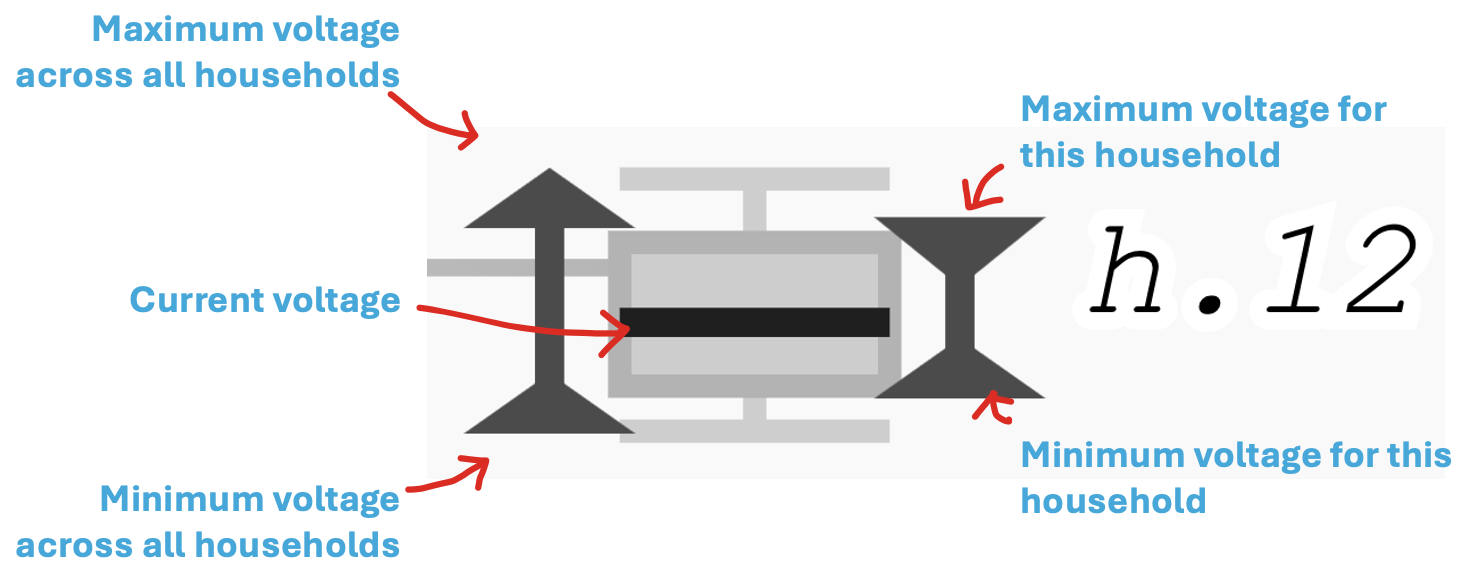
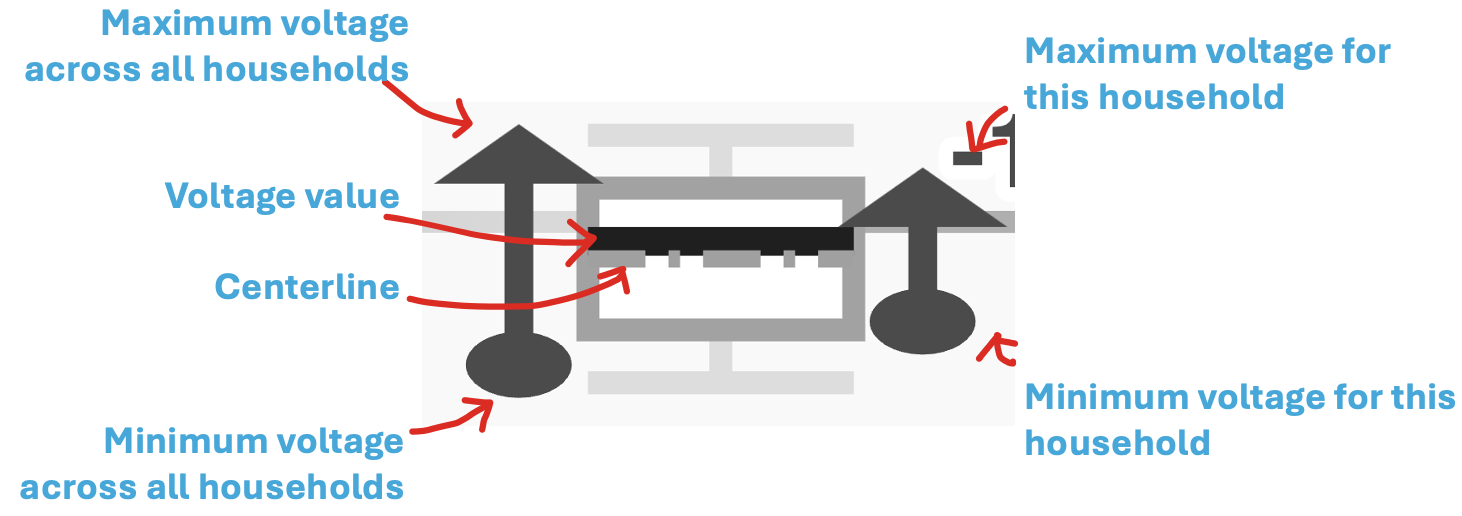
Questionnaire update

diff --git a/src/components/ReactMarkdownWrapper.tsx b/src/components/ReactMarkdownWrapper.tsx
@@ -29,6 +29,13 @@ const markdownComponents = (inline?: boolean): Partial<Components> => ({
   code({ node: _, ...props }) { return <Code {...props} />; },
   ul({ node: _, ...props }) { return <List withPadding {...props} pb={inline ? undefined : 8} />; },
   ol({ node: _, type: _type, ...props }) { return <List {...props} type="ordered" withPadding pb={inline ? undefined : 8} />; },
+  li({ node: _, children, ...props }) {
+    return (
+      <List.Item {...props}>
+        {children}
+      </List.Item>
+    );
+  },
   table({ node: _, ...props }) { return <Table {...props} mb={12} borderColor="grey" />; },
   thead({ node: _, ...props }) { return <Table.Thead {...props} />; },
   tbody({ node: _, ...props }) { return <Table.Tbody {...props} />; },

diff --git a/public/comparison-method/assets/tutorial3.md b/public/comparison-method/assets/tutorial3.md
@@ -2,7 +2,7 @@
 
 In this part, you will compare two datasets and answer a series of questions about the differences between them. In this design, the difference between the two datasets is **drawn directly in the figure**.
 
-![Example of the explicit encoding visualization](comparison-method/assets/exp/node.png)
+![Example of the explicit encoding visualization](comparison-method/assets/exp/test.png)
 
 ## How to read the figure
 
@@ -13,10 +13,10 @@ In this part, you will compare two datasets and answer a series of questions abo
 **B − A** difference is shown through three separate encodings on top of that fixed symbol:
 * **Line in the box** represents voltage value difference between dataset B and A, or voltage variation over time between dataset B and A. 
 * **Dashed in the box** represents the centerline of the symbol. It is fixed in the symbol and provide reference of the line position.
-* **Vertical position:** for the line in the box, vertical position represents the voltage value: a higher position indicates a higher voltage value, while a lower position indicates a lower voltage value.
-* **Left arrow:** the direction of the upper end represents the difference between B and A in maximum voltage value across all households; the direction of the bottom end represents the difference between B and A in minimum voltage value across all households.
-* **Right arrow:** the direction of the upper end represents the difference between B and A in maximum voltage value for that household; the direction of the bottom end represents the difference between B and A in minimum voltage value for that household.
-* **Arrow direction** indicates the the difference of B − A. Movement away from the centerline represents a positive difference (\( B - A > 0\)), whereas movement toward the centerline represents a negative difference (\(B - A < 0\)). 
+* **Vertical position** for the line in the box, vertical position represents the voltage value: a higher position indicates a higher voltage value, while a lower position indicates a lower voltage value.
+* **Left arrow** the direction of the upper end represents the difference between B and A in maximum voltage value across all households; the direction of the bottom end represents the difference between B and A in minimum voltage value across all households.
+* **Right arrow** the direction of the upper end represents the difference between B and A in maximum voltage value for that household; the direction of the bottom end represents the difference between B and A in minimum voltage value for that household.
+* **Arrow direction** indicates the the difference of B − A. Movement away from the centerline represents a positive difference \( B - A > 0\), whereas movement toward the centerline represents a negative difference \(B - A < 0\). 
   * For the upper ends of the arrows: arrow uses ▲ if B > A, ▼ if B < A, or ● if B = A.
   * For the bottom ends of the arrows: arrow uses ▼ if B > A, ▲ if B < A, or ● if B = A.
   
@@ -25,26 +25,33 @@ In this part, you will compare two datasets and answer a series of questions abo
 
 Each question names a node, for example **h.23**. There are three types of questions:
 
-1. **Value questions** ask which dataset has the *higher* value of one of these:
+#### **Value questions** 
+Ask which dataset has the *higher* value of one of these:
+![Example of the explicit encoding visualization](comparison-method/assets/exp/node.png)
 
-    * **Maximum / minimum voltage value across all households:** check the upper / bottom end of left arrow.Movement away from the centerline represents a positive difference (\( B - A > 0\)), whereas movement toward the centerline represents a negative difference (\(B - A < 0\)). 
-    * **Maximum / minimum voltage value for that household:** check the upper / bottom end of right arrow. Movement away from the centerline represents a positive difference (\( B - A > 0\)), whereas movement toward the centerline represents a negative difference (\(B - A < 0\)). 
-    * **Voltage value:** check the voltage line in the box, the line above the dashed line indicates B - A > 0, while line below the dashed line indicates B - A < 0.
+* **Maximum / minimum voltage value across all households:** check the upper / bottom end of left arrow. Movement away from the centerline represents a positive difference \( B - A > 0\), whereas movement toward the centerline represents a negative difference ((B - A < 0\). 
+* **Maximum / minimum voltage value for that household:** check the upper / bottom end of right arrow. Movement away from the centerline represents a positive difference \( B - A > 0\), whereas movement toward the centerline represents a negative difference \(B - A < 0\). 
+* **Voltage value:** check the voltage line in the box, the line above the dashed line indicates B - A > 0, while line below the dashed line indicates B - A < 0.
 
 *Answers: Dataset A, Dataset B, or Same.*
 
-2. **Variation questions** ask which dataset shows greater variation over time: 
+#### **Variation questions** 
+Ask which dataset shows greater variation over time: 
+<img src="comparison-method/assets/exp/variation.png" alt="drawing" style="width:500px;"/>
 
 * **Variation line:** check the line in the box, the line above the dashed line indicates B - A > 0, while line below the dashed line indicates B - A < 0.
 
 *Answers: Dataset A, Dataset B, or Same.*
 
-3. **Range questions** ask which dataset has the larger range for the node, that is, the difference between the maximum and minimum voltage value for that node:
+#### **Range questions** 
+Ask which dataset has the larger range for the node, that is, the difference between the maximum and minimum voltage value for that node:
+<img src="comparison-method/assets/exp/variation.png" alt="drawing" style="width:600px;"/>
 
-    * **Maximum / minimum voltage value for that household:** check the right arrow, two ends moving away from the centerline indicates the range is larger in Dataset B, while two ends moving toward the centerline indicates the range is smaller in Dataset B.
+* **Maximum / minimum voltage value for that household:** check the right arrow, two ends moving away from the centerline indicates the range is larger in Dataset B, while two ends moving toward the centerline indicates the range is smaller in Dataset B.
 
 *Answers: Dataset A, Dataset B, or Same.*
 
+#### Note
 If anything is unclear, please read this page again. When you are ready, select **Next** to start the questions.
 
 

diff --git a/public/comparison-method/assets/tutorial1.md b/public/comparison-method/assets/tutorial1.md
@@ -2,7 +2,7 @@
 
 In this part, you will compare two datasets and answer three groups of questions about the differences between them. In this design, the two datasets are shown in two grids **side by side**.
 
-![Example of the juxtaposition visualization](comparison-method/assets/jux/node.png)
+![Example of the juxtaposition visualization](comparison-method/assets/jux/test.png)
 
 ## How to read the figure
 * **Dataset A** is shown in the left grid.
@@ -22,24 +22,33 @@ In this part, you will compare two datasets and answer three groups of questions
 
 Each question names a node, for example **h.23**. There are three types of questions:
 
-1. **Value questions** ask which dataset has the *higher* value of one of these:
+#### **Value questions** 
+Ask which dataset has the *higher* value of one of these:
+![Example of the juxtaposition visualization](comparison-method/assets/jux/node.png)
 
-    * **Maximum / minimum voltage value across all households:** check the upper / bottom whisker, a higher position indicates a higher value, while a lower position indicates a lower value.
-    * **Maximum / minimum voltage value for that household:** check the upper / bottom box border, a higher position indicates a higher value, while a lower position indicates a lower value.
-    * **Voltage value:** check the voltage line in the box, a higher position indicates a higher value, while a lower position indicates a lower value.
+* **Maximum / minimum voltage value across all households:** check the upper / bottom whisker, a higher position indicates a higher value, while a lower position indicates a lower value.
+* **Maximum / minimum voltage value for that household:** check the upper / bottom box border, a higher position indicates a higher value, while a lower position indicates a lower value.
+* **Voltage value:** check the voltage line in the box, a higher position indicates a higher value, while a lower position indicates a lower value.
 
 *Answers: Dataset A, Dataset B, or Same.*
 
-2. **Variation questions** ask which dataset shows greater variation over time: 
+
+#### **Variation questions** 
+Ask which dataset shows greater variation over time: 
+<img src="comparison-method/assets/jux/variation.png" alt="drawing" style="width:500px;"/>
 
 * **Voltage curve:** assess the degree of dispersion of each time series around its central tendency over the time period. A greater degree of dispersion indicates greater variation.
 
 *Answers: Dataset A, Dataset B, or Same.*
 
-3. **Range questions** ask which dataset has the larger range for the node, that is, the difference between the maximum and minimum voltage value for that node:
 
-    * **Maximum / minimum voltage value for that household:** check the difference between upper / bottom box border, larger the difference indicates larger the range.
+#### **Range questions** 
+Ask which dataset has the larger range for the node, that is, the difference between the maximum and minimum voltage value for that node:
+<img src="comparison-method/assets/jux/range.png" alt="drawing" style="width:700px;"/>
+
+* **Maximum / minimum voltage value for that household:** check the difference between upper / bottom box border, larger the difference indicates larger the range.
 
 *Answers: Dataset A, Dataset B, or Same.*
 
+#### Note
 If anything is unclear, please read this page again. When you are ready, select **Next** to start the questions.

diff --git a/public/comparison-method/assets/tutorial2.md b/public/comparison-method/assets/tutorial2.md
@@ -2,7 +2,7 @@
 
 In this part, you will compare two datasets and answer a series of questions about the differences between them. In this design, two nodes are plotted at each data point **in the same grid**.
 
-![Example of the superposition visualization](comparison-method/assets/sup/node.png)
+![Example of the superposition visualization](comparison-method/assets/sup/test.png)
 
 ## How to read the figure
 * **Dataset A** is shown in the left grid.
@@ -22,25 +22,32 @@ In this part, you will compare two datasets and answer a series of questions abo
 
 Each question names a node, for example **h.23**. There are three types of questions:
 
-1. **Value questions** ask which dataset has the *higher* value of one of these:
+#### **Value questions** 
+Ask which dataset has the *higher* value of one of these:
+![Example of the superposition visualization](comparison-method/assets/sup/node.png)
 
-    * **Maximum / minimum voltage value across all households:** check the upper / bottom whisker, a higher position indicates a higher value, while a lower position indicates a lower value.
-    * **Maximum / minimum voltage value for that household:** check the upper / bottom box border, a higher position indicates a higher value, while a lower position indicates a lower value.
-    * **Voltage value:** check the voltage line in the box, a higher position indicates a higher value, while a lower position indicates a lower value.
+* **Maximum / minimum voltage value across all households:** check the upper / bottom whisker, a higher position indicates a higher value, while a lower position indicates a lower value.
+* **Maximum / minimum voltage value for that household:** check the upper / bottom box border, a higher position indicates a higher value, while a lower position indicates a lower value.
+* **Voltage value:** check the voltage line in the box, a higher position indicates a higher value, while a lower position indicates a lower value.
 
 *Answers: Dataset A, Dataset B, or Same.*
 
-2. **Variation questions** ask which dataset shows greater variation over time: 
+#### **Variation questions** 
+Ask which dataset shows greater variation over time: 
+![Example of the superposition visualization](comparison-method/assets/sup/variation.png)
 
 * **Voltage curve:** assess the degree of dispersion of each time series around its central tendency over the time period. A greater degree of dispersion indicates greater variation.
 
 *Answers: Dataset A, Dataset B, or Same.*
 
-3. **Range questions** ask which dataset has the larger range for the node, that is, the difference between the maximum and minimum voltage value for that node:
+#### **Range questions** 
+Ask which dataset has the larger range for the node, that is, the difference between the maximum and minimum voltage value for that node:
+![Example of the superposition visualization](comparison-method/assets/sup/range.png)
 
-    * **Maximum / minimum voltage value for that household:** check the difference between upper / bottom box border, larger the difference indicates larger the range.
+* **Maximum / minimum voltage value for that household:** check the difference between upper / bottom box border, larger the difference indicates larger the range.
 
 *Answers: Dataset A, Dataset B, or Same.*
 
+#### Note
 If anything is unclear, please read this page again. When you are ready, select **Next** to start the questions.
 

diff --git a/public/comparison-method/assets/introduction.md b/public/comparison-method/assets/introduction.md
@@ -8,9 +8,12 @@ An important task when analyzing electrical grids is to compare the grid under d
 
 In this study, you will complete a series of comparison tasks. In each task, you will compare two sets of data and answer questions based on the information shown in the visualization.
 
+# Tasks
 You will first read a short tutorial and practice several tasks to become familiar with the visualization and task format. You will then complete a series of comparison tasks using three different comparison strategies. Please answer each task as accurately and quickly as you can.
 
-There are no right or wrong answers. We are interested in understanding how different comparison strategies support in comparing two datasets.
+Please do not worry if you are unsure about an answer. Make your best judgment based on the information shown in the visualization. We are interested in understanding how different comparison strategies support in comparing two datasets.
+
+**Note:** For the best viewing experience, we recommend completing this study on a computer or tablet with a larger screen. Using a mobile phone is not recommended, as the smaller screen size may affect how the visualizations are displayed and viewed.
 
 
 

diff --git a/public/comparison-method/assets/help.md b/public/comparison-method/assets/help.md
@@ -1,3 +1,9 @@
 # Help
 
-This is a questionnaire. For each question, be sure to provide an answer and then click **Next** when you’re ready to move onto the next question.
+In each task, you will be shown a visualization comparing two datasets.
+
+Carefully examine the visualization and select the answer that you think best answers the question.
+
+Please answer each question as accurately and quickly as you can. Once you have selected your answer, click **Next** to continue to the next question.
+
+If you are unsure about an answer, make your best judgment based on the information shown in the visualization.

diff --git a/public/comparison-method/assets/consent.md b/public/comparison-method/assets/consent.md
@@ -1,10 +1,10 @@
 # IRB Consent Form
 
- **Investigator: Jinyi**
+ **Investigator: Jinyi Wang**
 
  **Contact Information: jinyi.wang@liu.se; (+46) 070 385 6042**
 
-## Title of Research Study: Supporting Data Visualization Literacy
+## Title of Research Study: Comparing comparison strategy
 ## Introduction
 You are being asked to participate in a research study. Before you
 agree, however, you must be fully informed about the purpose of
